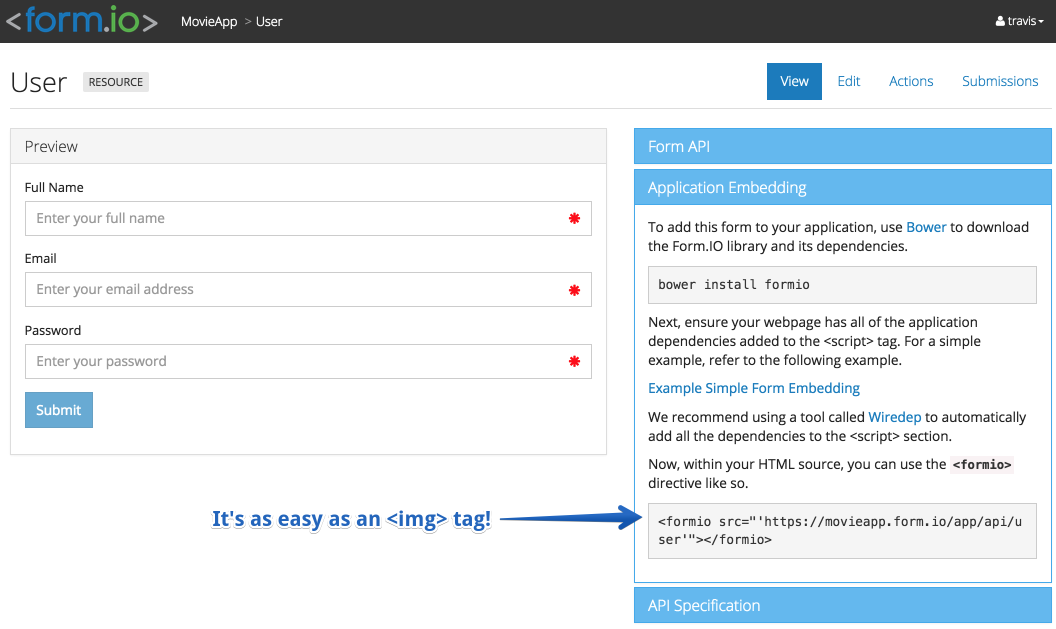
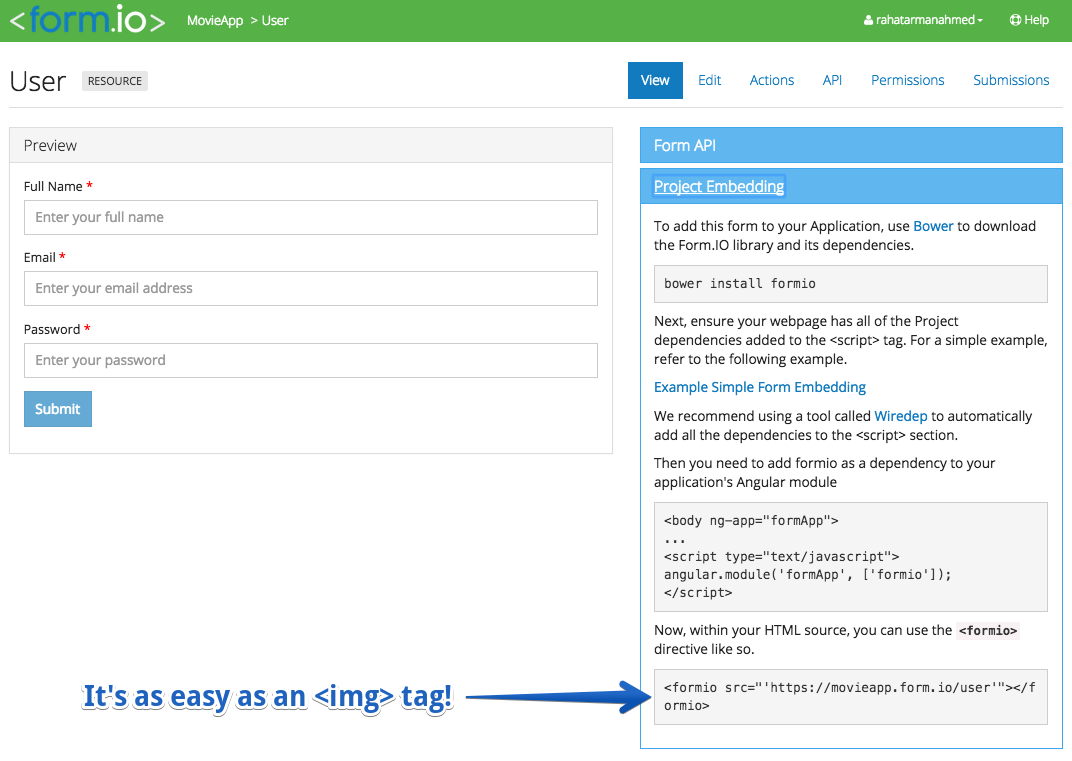
Updated images + added dependency start guide slide

diff --git a/start/index.html b/start/index.html
@@ -50,7 +50,7 @@
         <section>
           <p style="margin-bottom: 0;"><img class="trans-image" style="height: 2em; margin: 0;" src="assets/images/formio-logo-lg.png" /></p>
           <p style="margin-top: 0;">creates both the interface and the API in one step</p>
-            <img class="trans-image" style="height:12em" src="assets/images/formio-resource-view.png" />
+            <img class="trans-image" style="height:11em" src="assets/images/formio-resource-view.png" />
         </section>
         <section>
             <p style="margin-bottom: 0;"><img class="trans-image" style="height: 2em; margin: 0;" src="assets/images/formio-logo-lg.png" /></p>
@@ -121,7 +121,7 @@
         <section>
             <p>Here we can configure the <strong>Property Name</strong> used for this field in API calls.</p>
             <p><small>This is usually automatically generated for you, so no need to worry about it.</small></p>
-            <img style="height:10em;" src="assets/images/build/formio-user-email-api.png" />
+            <img style="height:8em;" src="assets/images/build/formio-user-email-api.png" />
         </section>
         <section>
             <p>Feel free to check out the settings of the other fields!</p>
@@ -284,6 +284,22 @@ var movieAppAPI = 'https://movieapp.form.io';
             - delete.html
             - view.html
             - director.html</code></pre></small>
+        </section>
+        <section>
+            <p>See our <a href="http://help.form.io/embedding/#formio-module">Application Embedding</a> guide on setting up formio's dependencies.</p>
+            <p>Then add formio to your angular module.</p>
+            <pre class="fragment fullwidth">app/scripts/app.js<code>angular.module('movieappApp', [
+    'formio', // <-- Dependency added here
+    'ngAnimate',
+    'ngSanitize',
+    'ui.select',
+    'ui.router',
+    'angularMoment',
+    'ngMap'
+  ])</code></pre>
+            <pre class="fragment fullwidth">app/scripts/app.js<code>&lt;body ng-app="movieappApp"&gt;
+...
+&lt;/body&gt;</code></pre>
         </section>
         <section>
             <p>Hook up <strong style="font-family: 'Comfortaa', cursive;"><span style="color:#3071a9">form</span><span style="color:#eee;">.</span><span style="color:#449d44">io</span></strong></p>
